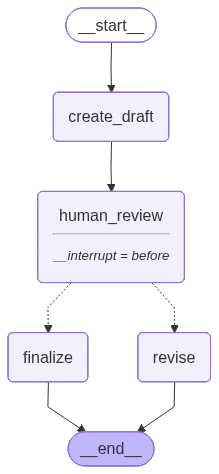
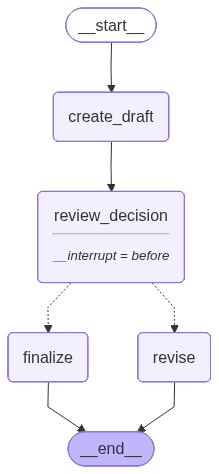
Clarify terminal human review flow

Changed region(s): [[0.2466, 0.443, 0.7671, 0.4726]]

diff --git a/7-Checkpointing/07_human_review_approval.py b/7-Checkpointing/07_human_review_approval.py
@@ -1,7 +1,7 @@
 # Demonstrates human-in-the-loop checkpointing with approval routing:
-# an LLM creates a draft, the graph pauses before the review decision node,
-# the user reviews the actual draft in the terminal, then update_state()
-# saves that decision before invoke(None, config) resumes the graph.
+# an LLM creates a draft, the graph pauses before a review_decision node,
+# the user reviews the actual draft outside the graph in the terminal,
+# then update_state() saves that decision before invoke(None, config) resumes.
 
 import sys
 from pathlib import Path
@@ -48,11 +48,13 @@ def create_draft(state: ApprovalState) -> dict:
     return {"draft": response.content}
 
 
-def human_review(state: ApprovalState) -> dict:
-    """Runs after the user decision has been saved into state."""
+def review_decision(state: ApprovalState) -> dict:
+    """Process the decision the user made outside the graph during the pause."""
     step_print("👁️", "REVIEW DECISION NODE", "Using the user's saved decision.")
     decision = "APPROVED ✅" if state["approved"] else "REJECTED ❌"
     print(f"   Decision: {decision}")
+    if state["feedback"]:
+        print(f"   Feedback: {state['feedback']}")
     return {}
 
 
@@ -88,14 +90,14 @@ def build_graph():
     builder = StateGraph(ApprovalState)
 
     builder.add_node("create_draft", create_draft)
-    builder.add_node("human_review", human_review)
+    builder.add_node("review_decision", review_decision)
     builder.add_node("finalize", finalize)
     builder.add_node("revise", revise)
 
     builder.add_edge(START, "create_draft")
-    builder.add_edge("create_draft", "human_review")
+    builder.add_edge("create_draft", "review_decision")
     builder.add_conditional_edges(
-        "human_review",
+        "review_decision",
         route_human_decision,
         {"finalize": "finalize", "revise": "revise"},
     )
@@ -104,14 +106,31 @@ def build_graph():
 
     checkpointer = MemorySaver()
 
-    # `interrupt_before=["human_review"]` means the graph stops after
-    # `create_draft` and saves a checkpoint before `human_review` runs.
-    # This gives a person time to inspect the draft and update the state.
-    return builder.compile(checkpointer=checkpointer, interrupt_before=["human_review"])
+    # `interrupt_before=["review_decision"]` means the graph stops after
+    # `create_draft` and saves a checkpoint before the decision node runs.
+    # The human can now inspect the real draft outside the graph, then
+    # update the saved state with approval or feedback before resuming.
+    return builder.compile(checkpointer=checkpointer, interrupt_before=["review_decision"])
 
 
-def ask_for_review_decision() -> dict:
-    """Collect the real human decision from the terminal."""
+def ask_for_request() -> str:
+    """Collect the real task the user wants drafted."""
+    request = input(
+        "What should the assistant draft?\n"
+        "Example: Write a thank-you email after a job interview.\n> "
+    ).strip()
+    if request:
+        return request
+    return "Write a thank-you email after a job interview"
+
+
+def ask_for_review_decision(draft: str) -> dict:
+    """Collect the real human decision from the terminal after showing the draft."""
+    print("\nDraft to review:")
+    print("-" * 55)
+    print(draft)
+    print("-" * 55)
+
     while True:
         decision = input("\nApprove this draft? (y/n): ").strip().lower()
         if decision in {"y", "yes"}:
@@ -137,10 +156,13 @@ def main() -> None:
     print("START → create_draft → ⏸ review_decision ──approve──→ finalize → END")
     print("                                         ╚──reject──→ revise   → END")
 
-    phase_banner(1, "RUN UNTIL INTERRUPT")
+    phase_banner(1, "USER ENTERS A REAL DRAFTING REQUEST")
+    user_request = ask_for_request()
+
+    phase_banner(2, "RUN UNTIL INTERRUPT")
     result = graph.invoke(
         {
-            "request": "Write a thank-you email after a job interview",
+            "request": user_request,
             "draft": "",
             "approved": False,
             "feedback": "",
@@ -150,13 +172,9 @@ def main() -> None:
     )
 
     step_print("⏸️", "PAUSED", "Graph frozen before the review decision node.")
-    print("\nDraft to review:")
-    print("-" * 55)
-    print(result["draft"])
-    print("-" * 55)
 
-    phase_banner(2, "USER REVIEWS THE DRAFT")
-    decision_update = ask_for_review_decision()
+    phase_banner(3, "USER REVIEWS THE ACTUAL DRAFT")
+    decision_update = ask_for_review_decision(result["draft"])
 
     # update_state() edits the saved checkpoint for this thread. The next
     # invoke(None, config) resumes from that checkpoint with the user's values.
@@ -164,7 +182,7 @@ def main() -> None:
     print(f"   Saved approved: {decision_update['approved']}")
     print(f"   Saved feedback: {decision_update['feedback']!r}")
 
-    phase_banner(3, "RESUME FROM CHECKPOINT")
+    phase_banner(4, "RESUME FROM CHECKPOINT")
     print("   Resuming graph with invoke(None, config)...")
     final_state = graph.invoke(None, config)
 

diff --git a/7-Checkpointing/README.md b/7-Checkpointing/README.md
@@ -242,12 +242,12 @@ Graph from the code:
 
 ![Human review approval graph](diagrams/07_human_review_approval_graph.png)
 
-This example combines three ideas: checkpointing, human-in-the-loop, and conditional routing. The graph starts normally: an LLM writes a draft. Then it pauses **before** the review-decision node, prints the actual draft, and asks the user in the terminal whether to approve it or request changes.
+This example combines three ideas: checkpointing, human-in-the-loop, and conditional routing. The script first asks what you want drafted. Then the graph starts: an LLM writes the draft and LangGraph pauses **before** the `review_decision` node. While the graph is paused, the terminal shows the actual draft and asks the user whether to approve it or request changes.
 
 ```mermaid
 flowchart LR
     START([START]) --> DRAFT["create_draft"]
-    DRAFT --> REVIEW["human_review"]
+    DRAFT --> REVIEW["review_decision"]
     REVIEW --> ROUTE{"approved?"}
     ROUTE -->|yes| FINALIZE["finalize"]
     ROUTE -->|no| REVISE["revise"]
@@ -255,23 +255,26 @@ flowchart LR
     REVISE --> END
 ```
 
-The important idea is that the human decision happens **after** the draft exists. The user reads the generated draft, types approval or feedback, and that decision is written into the saved checkpoint for the same `thread_id`.
+The important idea is that the human is **outside the graph** during the pause. The user reads the generated draft, types approval or feedback in the terminal, and that decision is written into the saved checkpoint for the same `thread_id`. The `review_decision` node runs only after resume; it does not collect input itself.
 
 ```python
-decision = input("Approve this draft? (y/n): ")
+result = graph.invoke(initial_input, config)  # pauses after create_draft
 
+print(result["draft"])  # human reviews the real draft outside the graph
+
+decision = input("Approve this draft? (y/n): ")
 if decision == "y":
     graph.update_state(config, {"approved": True, "feedback": ""})
 else:
     feedback = input("What should be improved? ")
     graph.update_state(config, {"approved": False, "feedback": feedback})
 
-final_state = graph.invoke(None, config)
+final_state = graph.invoke(None, config)  # resumes at review_decision
 ```
 
-`update_state(...)` edits the saved checkpoint. `invoke(None, config)` means “resume this same thread from its saved checkpoint; do not start from `START` with fresh input.” Because the checkpoint was paused before the review-decision node, the graph continues there, reads the updated `approved` and `feedback` values, then routes to either `finalize` or `revise`.
+`update_state(...)` edits the saved checkpoint. `invoke(None, config)` means “resume this same thread from its saved checkpoint; do not start from `START` with fresh input.” Because the checkpoint was paused before `review_decision`, the graph continues there, reads the updated `approved` and `feedback` values, then routes to either `finalize` or `revise`.
 
-This is the reason the interrupt matters: the feedback is not known before the graph starts. It depends on the exact draft the LLM generated. In a real app, the same decision could come from a UI button, Slack approval, email review, or any human approval step.
+This is the reason the interrupt matters: the feedback is not known before the graph starts. It depends on the exact draft the LLM generated, so the graph must stop long enough for the user to inspect that draft. In a real app, the same decision could come from a UI button, Slack approval, email review, or any human approval step.
 
 ## Setup
 